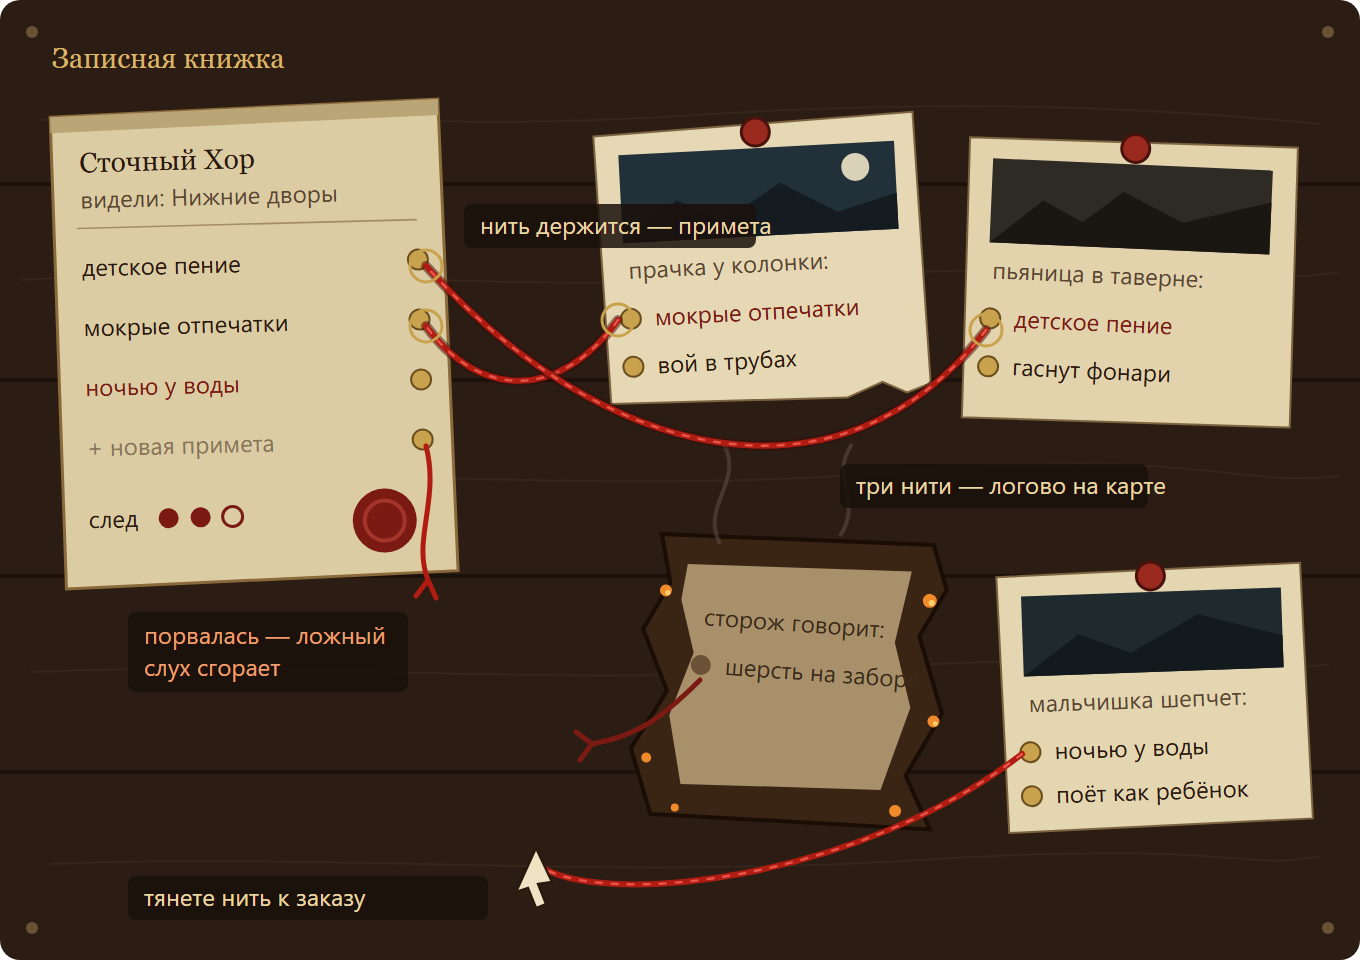
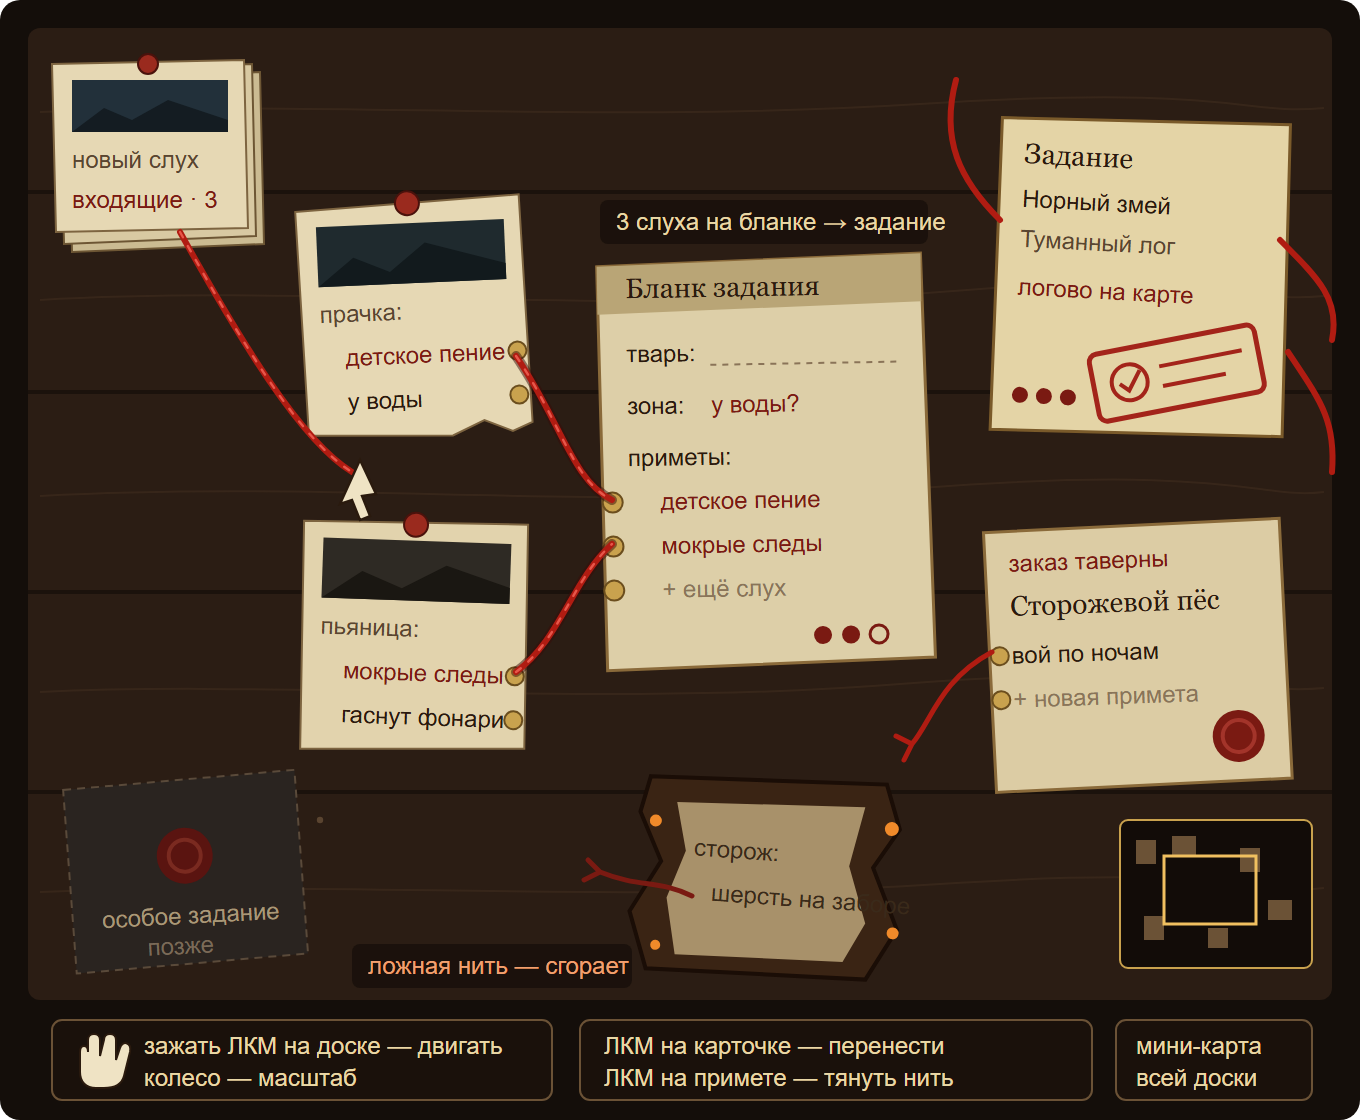
The detective board redrawn larger: rumors make missions on a blank form (owner 2026-10-15)
The owner wants the notebook board to be large and panned with the held left mouse button. Rumors tied by threads
to an empty mission form should make missions: three rumors about one creature fill the form into a mission, with
the lair on the map plus loot and XP. Tavern contracts stay on the board beside them, and the player moves the cards.
Special missions from special rumors come later and are not built.

The sketch (docs/assets/ui/notebook_threads.png) shows a part of the big board in the screen: the incoming stack,
the mission form with threads, a finished mission with a stamp, a tavern contract, a burned rumor, a place for a
special mission and the minimap, with the controls. Art part X is redone: the board as a seamless TEX__board, plus
X8 the mission form and X9 the stamp. Decisions and a GDD 8 «Next» note record it; the code comes next.

diff --git a/docs/art-prompts/art-backlog.md b/docs/art-prompts/art-backlog.md
@@ -267,33 +267,37 @@ UI STYLE BLOCK + TRANSPARENT BLOCK, холст square, папка `assets/icons/
 |---|---|---|
 | W1 | `RUMOR__lair.png` | A round wrought-iron plaque nailed to wet cobbles, seen from above: a dark iron disc with a riveted rim, three deep claw gouges torn across it, dried blood in the grooves, a few dark drops around. Bold, simple, readable when tiny; no text. |
 
-## X. Доска сыщика в записной книжке (8) — чат «Notebook»
+## X. Доска сыщика в записной книжке (9) — чат «Notebook»
 
-Записная книжка (GDD §8.4): доска тёмного дерева, слева карточки заказов, справа приколотые слухи, между ними
-**красные нити** от примет слухов к приметам заказа. Верная нить держится, ложная рвётся, и слух сгорает. Сейчас
-всё нарисовано кодом; эти картинки сделают доску «настоящей». Эскиз раскладки — `docs/assets/ui/notebook_threads.png`.
+Записная книжка (GDD §8): **большая доска**, по которой ходят, зажав левую кнопку мыши (колесо — масштаб и мини-карта
+в углу — предложение Claude). Новые слухи падают в стопку «входящие», игрок сам прикалывает карточки куда хочет и тянет **красные нити**:
+от примет слухов к **бланку задания** (три слуха про одну тварь — бланк заполняется и становится заданием со штампом,
+на карте логово) или к заказу из таверны. Ложная нить рвётся, слух сгорает. Особые задания — позже (не рисовать).
+Эскиз — `docs/assets/ui/notebook_threads.png`.
 
 **Порядок.** Сначала **X0** в отдельном чате: приложи эскиз и попроси красивый концепт. Это образец для глаз, в игру
-он не идёт: сохрани его в `docs/assets/ui/` (**не** в `assets/`, иначе импорт заберёт его в игру). Затем **X1–X7** в
+он не идёт: сохрани его в `docs/assets/ui/` (**не** в `assets/`, иначе импорт заберёт его в игру). Затем **X1–X9** в
 одном чате с приложенным концептом X0 и словами: «Same materials, light and palette as the attached concept; one
-isolated piece only». Для X7 приложи ещё готовый `NOTE__rumor_card.png`. Папка X1–X7 — `assets/ui/`. Блоки — UI STYLE
-BLOCK (+ TRANSPARENT BLOCK, где указано): тени, дым и тёплый свет концепта X0 — только в нём, в X2–X7 фон и тени не
-рисовать. Текст игра пишет сама, поэтому бумага везде **пустая**.
+isolated piece only». Для X7 приложи ещё готовый `NOTE__rumor_card.png`, для X8 — готовый `NOTE__contract_card.png` (одна бумага). Папка X1–X9 — `assets/ui/`. Блоки — UI STYLE
+BLOCK (+ TRANSPARENT или TEXTURE BLOCK, где указано): тени, дым и тёплый свет концепта X0 — только в нём, в X2–X9 фон
+и тени не рисовать. Текст игра пишет сама, поэтому бумага везде **пустая**.
 
 | # | Файл | Холст | Блоки | Промт (дописать к блокам) |
 |---|---|---|---|---|
-| X0 | `NOTE__concept.png` (в `docs/assets/ui/`) | wide | UI | A detective's evidence board seen straight on, warm lamplight from the upper left: dark weathered wooden planks with old nail holes and scratches. On the left a parchment contract sheet with a red wax seal and ruled lines; on the right four small torn paper leaflets, each pinned by a brass pushpin, a tiny ink sketch of a street at night at the top of each, slightly rotated. Taut red wool threads run from small brass pins on the leaflets to brass pins on the contract sheet, sagging slightly, casting thin shadows; one thread is snapped with frayed ends hanging, and the leaflet it came from is burning at the edges with glowing embers and a curl of smoke. Composition like the attached sketch; all paper blank, no writing. |
-| X1 | `NOTE__board.png` | wide | UI | The empty board only: dark weathered wooden planks laid horizontally, iron nails at the corners, old pin holes, faint scratches and soot, a darker worn frame of the same wood around the edge, the frame the same width on all four sides. Even light, no objects, nothing pinned. |
+| X0 | `NOTE__concept.png` (в `docs/assets/ui/`) | wide | UI | A part of a large detective's evidence board seen straight on, warm lamplight from the upper left: dark weathered wooden planks with old nail holes and scratches. In the middle a blank parchment form with a darker header band and a few empty dotted lines; red wool threads run to it from small brass pins on two torn paper leaflets on its left, each leaflet pinned by a brass pushpin with a tiny ink sketch of a night street at its top. In the top left corner a small untidy stack of new leaflets. On the right a filled form with a red ink stamp, three threads leading off the edge; below it a parchment sheet with a red wax seal and one thread. At the bottom a leaflet burning at the edges with glowing embers and a curl of smoke, a snapped thread with frayed ends hanging from it. Composition like the attached sketch; all paper blank, no writing. |
+| X1 | `TEX__board.png` | square | UI + TEXTURE | Dark weathered wooden planks laid horizontally, the seams between planks evenly spaced, old pin holes, faint scratches and soot. |
 | X2 | `NOTE__rumor_card.png` | tall | UI + TRANSPARENT | One small torn paper leaflet, cheap and slightly yellowed, ragged bottom edge, a small hole at the top where a pin goes, faint water stains; the paper is EMPTY. |
 | X3 | `NOTE__contract_card.png` | tall | UI + TRANSPARENT | One sheet of thick parchment with a darker top band, faint ruled lines, a red wax seal in the lower right corner, slightly curled corners; no writing. |
 | X4 | `NOTE__pin.png` | square | UI + TRANSPARENT | One brass pushpin seen from straight above: a round domed tarnished-brass head with a small highlight, a tiny loop of red thread wound once around it. Readable when tiny. |
 | X5 | `NOTE__thread.png` | wide | UI + TRANSPARENT | One straight horizontal piece of twisted red wool yarn running across the whole canvas width, about one eighth of the canvas tall, transparent above and below; the twist clearly visible, even thickness, the same at both ends so it can be repeated; nothing else. |
 | X6 | `NOTE__thread_frayed.png` | square | UI + TRANSPARENT | The frayed torn end of a red wool yarn: the twisted thread coming in from the left and splitting into loose fibres on the right. |
 | X7 | `NOTE__burn.png` | tall | UI + TRANSPARENT | The same small leaflet as the attached one, burning: charred black edges curling inward, glowing orange embers along the burn line, a little grey smoke rising, holes burned through; the middle still pale and empty. |
+| X8 | `NOTE__mission_blank.png` | tall | UI + TRANSPARENT | One blank printed form on thick off-white paper: a darker header band, a thin printed border, a few empty dotted lines for writing, three small empty printed circles near the bottom, a punched hole at the top; no letters. |
+| X9 | `NOTE__stamp.png` | square | UI + TRANSPARENT | One red ink rubber-stamp mark as if pressed on paper at a slight angle: a rectangular frame with a round seal and a simple claw-mark emblem inside, uneven ink, a few gaps where the ink did not take; no letters. |
 
-**Как пойдёт в игру (для Claude):** X1 — фон доски (рамка по краям не растягивается: девять частей, середину
-при другом размере экрана заполняет `TEX__dark_wood`), X2/X3 — бумага карточек
-(`notebook_cards.gd`), X4 — булавки на концах нитей, X5 — текстура нити для `Line2D` с повтором вдоль изгиба
+**Как пойдёт в игру (для Claude):** X1 — бесшовное полотно большой доски (`TEX__` — импорт сам сглаживает шов;
+повтор во все стороны, вместо `TEX__dark_wood`), X2/X3 — бумага слухов и заказов (`notebook_cards.gd`), X8 — бланк задания, X9 — штамп на
+собранном задании, X4 — булавки на концах нитей, X5 — текстура нити для `Line2D` с повтором вдоль изгиба
 (`thread_view.gd`), X6 — концы порванной нити, X7 — кадр сгорания вместо цветного прямоугольника (`notebook_board.gd`).
 
 ## Q. Значок и Steam — фаза 10

diff --git a/docs/reference/decisions.md b/docs/reference/decisions.md
@@ -68,6 +68,7 @@
 | 2026-10-14 | Слухи по-новому: заказ с доски → **«Слушать улицу»** в зоне (синие кольца до границы зоны, иконки слухов) → у слуха **«Взять в записи» / «Отбросить»**; **3 верных** — отметка твари (бой), **3 неверных** (счёт скрыт) — **красная неизвестная угроза**, бой необязательный; слушать **бесплатно**, день — только на бой; слушать можно **в любой зоне**. Убраны: утренние ромбы, столб со слухами, «Расследовать (весь день)», «Проверить слух» в Скриптории, слух со смены в таверне | GDD §8.4, `scenes/rumors/`, `rumor_rules.gd` |
 | 2026-10-14 | Вывески мест — **нарисованные** (часть V: дом, мастерская, таверна, лавка, лазарет, Скрипторий); прежняя табличка — запасная | GDD §20.3, `place_signs.gd` |
 | 2026-10-15 | Слухи — **записная книжка с доской сыщика** вместо «Слушать улицу» (владельцу не нравились иконки, кольца, большое окно и пассивность): слухи **подслушиваются по дороге** (обрывок фразы над охотником, листок улетает в книжку, цифра на иконке) и **«Расспросить» в таверне** (2–3, раз в день); в книжке **нить от приметы слуха к заказу**: верная держится и дописывает примету, ложная рвётся — слух сгорает; **3 слуха на нитях — логово на карте** (бой); **красной угрозы нет**; карточки лежат, **пока не выбросишь** | GDD §8.4, `scenes/rumors/` |
+| 2026-10-15 | Доска в книжке — **большая**, двигается зажатой ЛКМ (колесо — масштаб и мини-карта — предложение Claude, подтвердить); новые слухи — в стопку «входящие», **карточки двигает сам игрок**. Из слухов **собираются задания**: нити от примет слухов к **пустому бланку задания**, три слуха про одну тварь — бланк становится заданием, **логово + добыча** (без заказчика); заказы таверны **остаются** на доске рядом. **Особые задания** из особых слухов — позже, не делать. Пока сделан эскиз и промты, код — следующим шагом | `docs/assets/ui/notebook_threads.png`, art-backlog X |
 
 ## Открытые вопросы (решает владелец)
 

diff --git a/docs/gdd/08-investigation.md b/docs/gdd/08-investigation.md
@@ -5,6 +5,12 @@
 > tavern**; they go into the **notebook**, a detective board where the player ties **red threads** from their signs to
 > contracts. Section 8.4 is the rule as built; 8.2 (tags) still holds.
 
+> **Next (owner 2026-10-15, not built yet):** the notebook becomes a **large board** panned with the held left mouse
+> button (wheel zoom and a minimap — Claude's proposal, to confirm); new rumors land in an «incoming» stack and the player pins cards anywhere. Rumors
+> also **make missions**: threads from rumor signs to an empty **mission form** — three rumors about one creature fill
+> it into a mission (its lair on the map, loot and XP, no client). Tavern contracts stay on the board beside them.
+> Special missions from special rumors — later. Sketch: `docs/assets/ui/notebook_threads.png`.
+
 ## 8.1 Flow
 
 1. Take a contract on the tavern board (GDD 7): it says in which **zone** the creature was last seen.

diff --git a/docs/reference/assets.md b/docs/reference/assets.md
@@ -35,5 +35,5 @@
 
 | Prompt file | Named | Missing |
 |---|---|---|
-| `art-backlog.md` | 94 | 13: GREY__map__festival, GREY__map__fog_breach, GREY__map__quarantine, NOTE__board, NOTE__burn, NOTE__concept, NOTE__contract_card, NOTE__pin, NOTE__rumor_card, NOTE__thread, NOTE__thread_frayed, RUMOR__lair … |
+| `art-backlog.md` | 96 | 15: GREY__map__festival, GREY__map__fog_breach, GREY__map__quarantine, NOTE__burn, NOTE__concept, NOTE__contract_card, NOTE__mission_blank, NOTE__pin, NOTE__rumor_card, NOTE__stamp, NOTE__thread, NOTE__thread_frayed … |
 | `map-life-people.md` | 9 | 0 |
